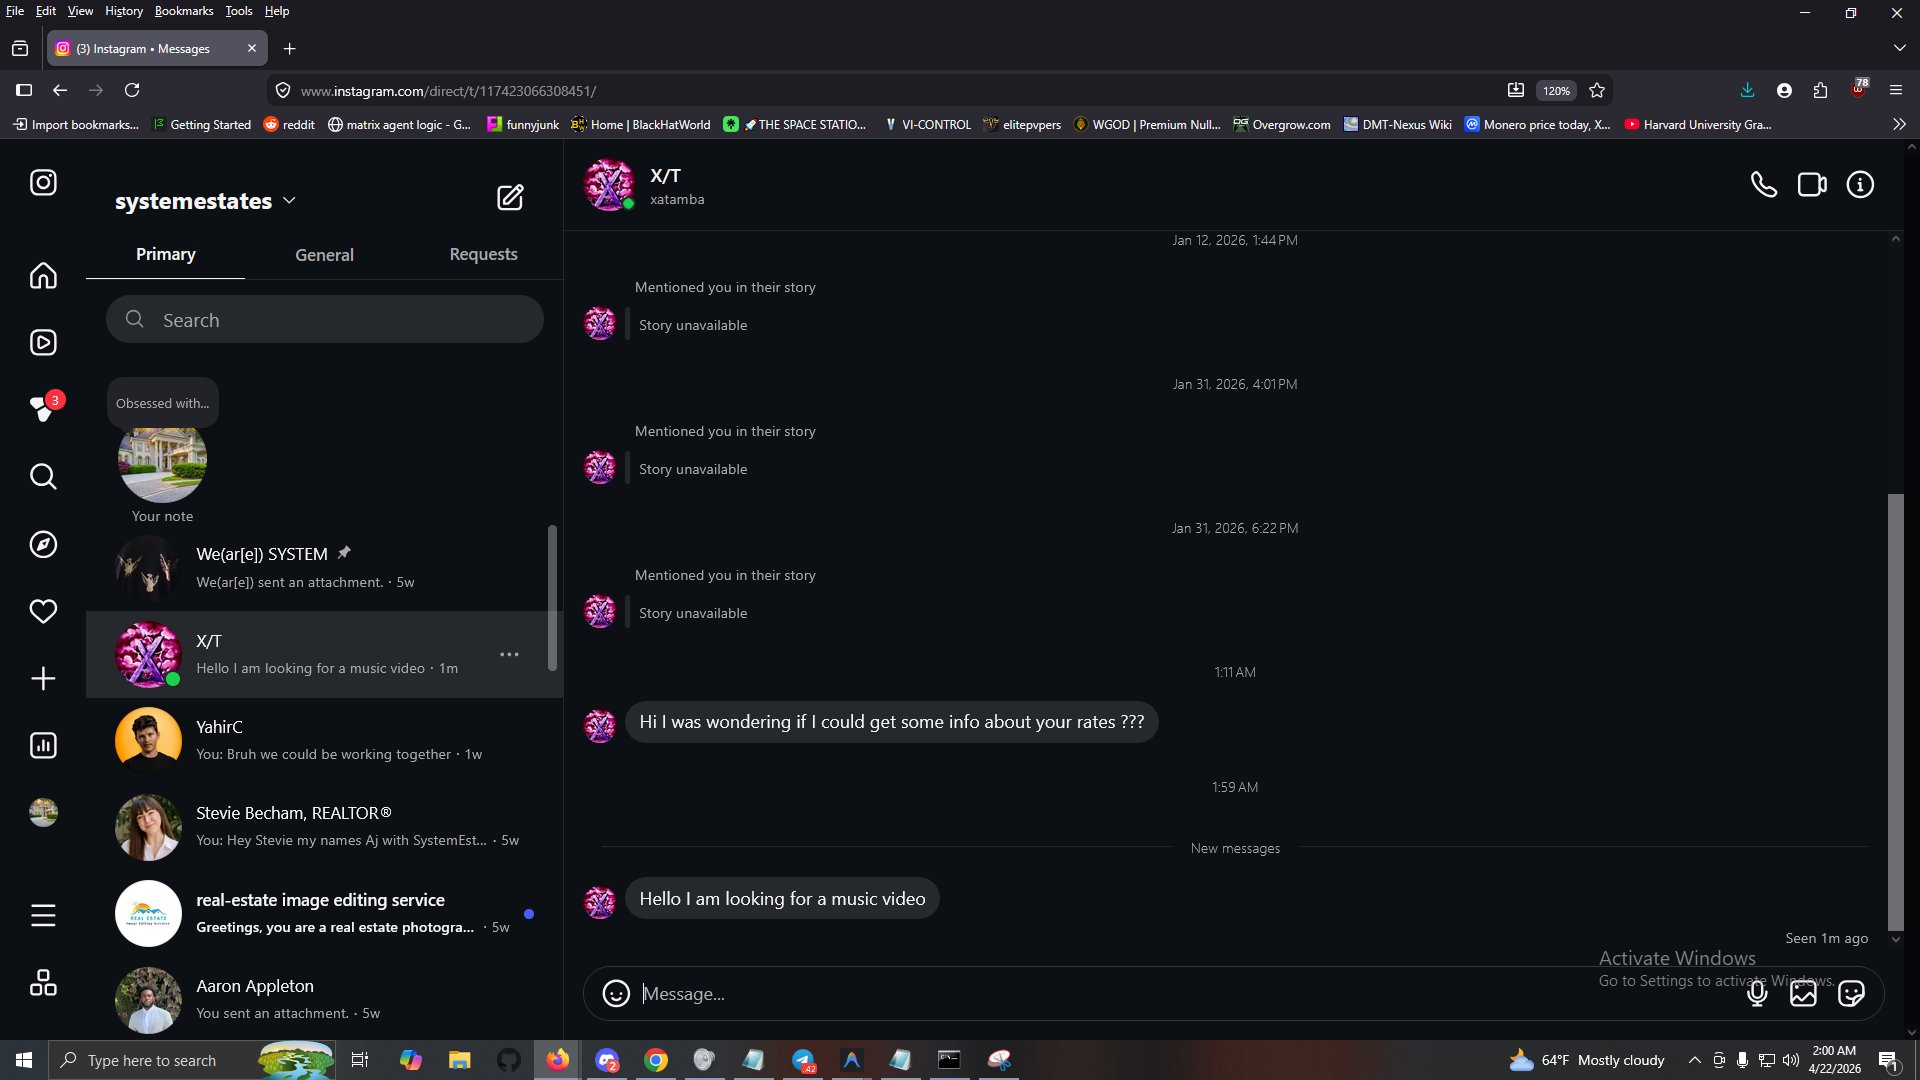
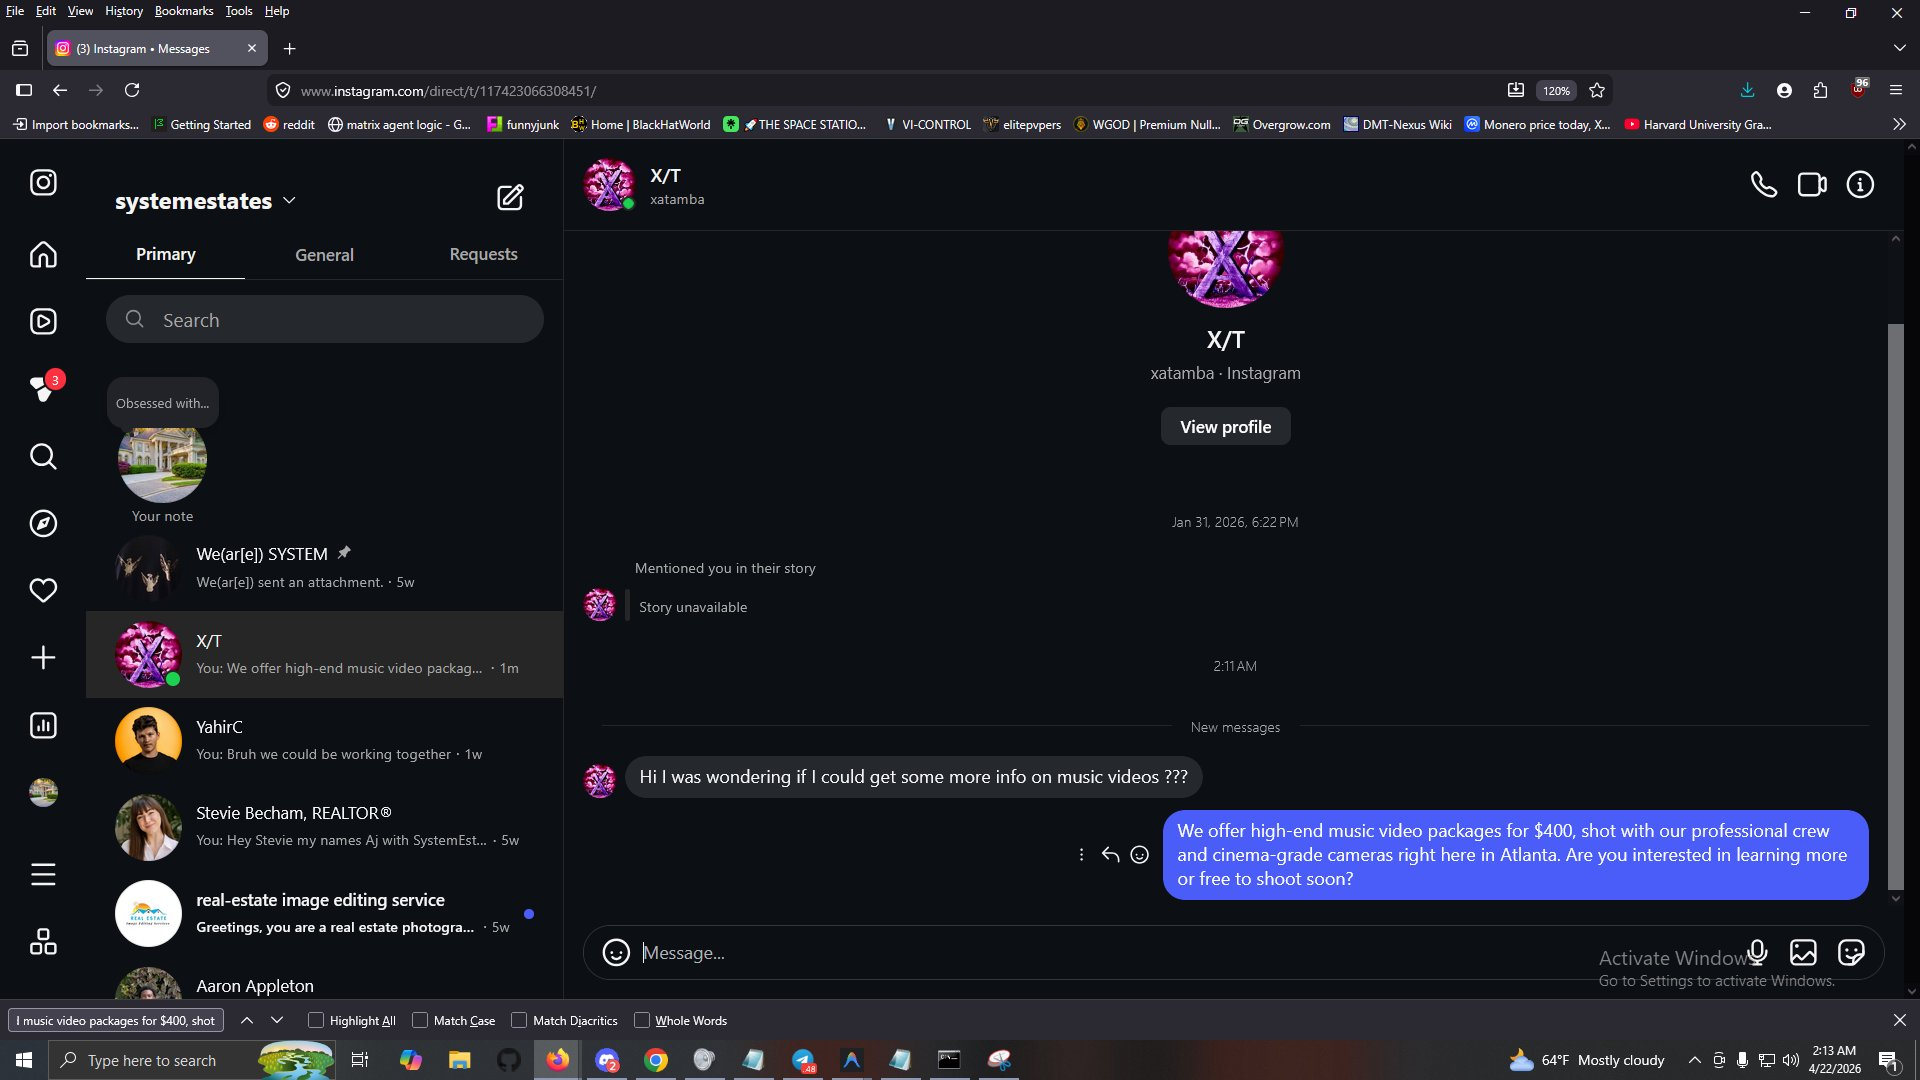
feat: Fix split-pane scrolling and overhaul README for teammates

diff --git a/cmd/s66-bot/main.go b/cmd/s66-bot/main.go
@@ -127,6 +127,11 @@ func StateScroll(a *Agent) (State, error) {
 		return StateObserve, nil
 	}
 
+	// Phase 7: Force mouse to hover over the left inbox pane before scrolling
+	// (Prevents scrolling the right-hand chat history by accident)
+	hardware.MoveSmooth(300, 500)
+	time.Sleep(500 * time.Millisecond)
+
 	hardware.ScrollDown()
 	a.ScrollCount++
 	

diff --git a/README.md b/README.md
@@ -1,101 +1,62 @@
-# System DM Bot: A&R Agent
+# S66 Reachout Bot (VLA Sovereign Agent)
 
-automation engine for System Films' localized outreach pipeline. 
+![S66 Architecture](debug_vision.jpg)
 
-This repository contains the Golang architecture for a sovereign **Vision-Language-Action (VLA) Agent**. Unlike traditional bots, system-dm-bot is designed to operate seamlessly within highly guarded social platforms without triggering automated anti-bot security systems.
+The **S66 Reachout Bot** is a Vision-Language-Action (VLA) Sovereign Agent built for System Films in Atlanta. It autonomously navigates the Instagram Desktop UI, visually hunts for inbound leads using Computer Vision, evaluates the conversation context using Cognitive AI, and dynamically generates personalized $400 music video pitches.
 
-## Why
+## System Architecture
 
-Historically, web automation relied on reading a website's background code (DOM manipulation) or reverse-engineering hidden APIs. In the current digital landscape, trillion-dollar AI systems employed by social networks instantly detect and ban headless browsers and scraper scripts. 
-
-It does not read code; it reads pixels. It does not send HTTP requests to internal endpoints; it physically commands the operating system's hardware mouse and keyboard drivers. 
-1. **The Eyes:** Vertex AI (Gemini) takes a screenshot of the virtual monitor and returns the exact [X, Y] pixel coordinates of the interface elements we want to interact with.
-2. **The Hands:** We utilize low-level C-bindings (`RobotGo`) to emulate human kinematics—moving the mouse along randomized Bezier curves and typing with millisecond, human-like cadences.
-
-## Architecture: The S66 7-Layer OSI Model
-
-To help conceptualize this invisible "headless" terminal bot, we map the VLA architecture to a 7-layer OSI structure:
-
-| Layer | Name | Component | Function in S66 Reachout Bot |
-|---|---|---|---|
-| **7** | **Application (Personality)** | `SKILL.md` | The highest layer. Dictates the bot's "soul", persona, tone, and specific Atlanta System Films outreach instructions. |
-| **6** | **Presentation (Parsing)** | `pkg/optics/vision.go` | Translates the unstructured Vertex JSON response into precise `[Y, X]` float arrays. |
-| **5** | **Session (FSM Loop)** | `cmd/s66-bot/main.go` | The Infinite State Machine that manages the active DM session (Wait -> Screenshot -> Reason -> Click -> Type). |
-| **4** | **Transport (API / Token)** | `gcloud ADC` | The secure, encrypted tunnel that transports images and text to Google Cloud via your Application Default Credentials. |
-| **3** | **Network (Vertex Cloud)** | `genai.Client` | Gemini 1.5 Pro multimodal processing. This is the "Brain" that does the heavy lifting of understanding the screen. |
-| **2** | **Data Link (Memory)** | `pkg/pipeline` | Firestore / SQLite tracking. Ensures we don't message the same user twice. |
-| **1** | **Physical (Actuation)** | `pkg/hardware/motor.go` | Raw OS-level C-bindings. Uses `robotgo` to capture physical VRAM bytes and actuate literal hardware mouse/keyboard events. |
-
-Because Layer 1 completely bypasses the browser's DOM (HTML/CSS), Instagram cannot block it. It is physically simulating a human being.
-
-## Visual Debugging
-Because the bot runs in the background without a UI dashboard, we built **Observability** into Layer 1. 
-Every time the bot takes a screenshot, it saves it to the root folder as `debug_vision.jpg`. You can click this file to literally "see" what the bot is seeing at any given moment.
-
-To the platform's security algorithms, system-dm-bot is indistinguishable from a System Films A&R representative sitting at a computer in Atlanta, reading a screen, and physically clicking a mouse.
+The bot operates on an Infinite State Machine (FSM) loop with three core engines:
+1. **Optics Layer (`pkg/optics`)**: Uses Google Vertex AI (Gemini 2.5 Flash) to analyze spatial UI coordinates and perform cognitive evaluations of chat history.
+2. **Motor Layer (`pkg/hardware`)**: Uses `robotgo` to hijack physical OS-level mouse and keyboard drivers for human-like kinematic movement (bezier curves).
+3. **Cognitive Engine (`SKILL.md`)**: Injects the System Films persona to dynamically draft unique pitches.
 
 ---
 
-## 🌐 Universal Laptop Setup (God Mode)
+## Team Deployment & Cloud Billing
 
-Because this bot physically controls the operating system, it has a strict setup process. If you are a teammate pulling this repo to a new laptop, you must follow these steps perfectly.
+The S66 Bot runs on a centralized **Google Cloud Platform (GCP)** architecture (`matrix-esa-production`). 
+**DO NOT distribute API keys or Service Account JSON files.** 
 
-### Step 1: The "C Thing" (TDM-GCC)
-Because the bot uses `RobotGo` to emulate hardware inputs, it requires C-bindings. Standard Golang cannot compile this natively on Windows.
-1. Download and install [TDM-GCC](https://jmeubank.github.io/tdm-gcc/).
-2. You **must** add the TDM-GCC `bin` folder to your Windows System Environment `PATH` (e.g., `C:\TDM-GCC-64\bin`).
+Instead, the billing and infrastructure are centrally controlled by the System Films Administrator using GCP Identity and Access Management (IAM). 
 
-### Step 2: Google Cloud CLI & Billing
-The bot sends images to Vertex AI (Gemini 2.5 Flash). You need a Google Cloud account with an active billing profile.
-1. Install the [Google Cloud CLI](https://cloud.google.com/sdk/docs/install).
-2. Open a terminal and log in:
+### Setup Instructions for Teammates
+
+If you are a System Films teammate installing this on your laptop, follow these steps exactly:
+
+1. **Install Prerequisites**:
+   - Install [Go (Golang)](https://go.dev/dl/).
+   - Install [TDM-GCC](https://jmeubank.github.io/tdm-gcc/) (Required for CGO hardware drivers). Add it to your Windows `PATH`.
+   - Install the [Google Cloud CLI](https://cloud.google.com/sdk/docs/install).
+
+2. **Authenticate with Google Cloud**:
+   Open your terminal and run the following command to authenticate using your corporate Google account:
    ```bash
-   gcloud auth application-default login
+   gcloud auth application-default login --quota-project=matrix-esa-production
    ```
-3. **CRITICAL:** You must tell Google which project is paying for the API calls. Run this command to set the Quota Project:
-   ```bash
-   # Use matrix-esa-production for testing, or system-dm-bot for production
-   gcloud auth application-default set-quota-project matrix-esa-production
+   *(Note: The System Admin must add your Google email to the GCP IAM as a `Vertex AI User` before this will work).*
+
+3. **Clone and Compile**:
+   ```powershell
+   git clone https://github.com/alex-cyr/system-dm-bot.git
+   cd system-dm-bot
+   go build -ldflags="-s -w" -o s66-bot.exe ./cmd/s66-bot/main.go
    ```
-
-### Step 3: Project Configuration Switch
-In `cmd/test-vision/main.go` and `cmd/s66-bot/main.go`, ensure the `NewVisionClient` string matches your target Google Cloud Project ID. 
-- *Testing:* `"matrix-esa-production"`
-- *Production:* `"system-dm-bot"`
-
-### Step 4: Compiling & Testing
-Always test the "Eyes" and "Hands" independently before running the main bot loop.
-
-**Test the Hands (Physical Actuation):**
-```bash
-$env:CGO_ENABLED="1"
-go build -buildmode=exe -ldflags="-s -w" -o test_hands.exe ./cmd/test-hardware/main.go
-.\test_hands.exe
-```
-*(Warning: The moment you press enter, take your hand off the mouse).*
-
-**Test the Eyes (Vertex AI Vision):**
-```bash
-$env:CGO_ENABLED="1"
-go build -buildmode=exe -ldflags="-s -w" -o test_vision.exe ./cmd/test-vision/main.go
-.\test_vision.exe
-```
-*(Check the root folder for `debug_vision.jpg` to see what the bot saw).*
 
 ---
 
-##  Team Help
+## Execution Manual (God Mode)
 
-We have cleanly separated the logic so multiple team members can build this.
+Before running the agent, you must set up your physical desktop environment.
 
-### 1. The Prompt Engineers (Focus: `pkg/optics/vision.go`)
-We need the Vertex AI spatial prompts to be bulletproof. Your job is to upload screenshots of Instagram DMs to Google AI Studio, figure out the exact text prompt needed to make Gemini return the perfect bounding box for the "New Message" dot or the "Reply" text box, and integrate those prompts here.
+1. **Hardware Setup**: Move your web browser to your **Primary Monitor**. Ensure it is fully maximized.
+2. **Instagram Setup**: Log into the designated System Films Instagram account and open the DM Inbox page (`instagram.com/direct/inbox/`).
+3. **Launch the Engine**: Open your terminal, ensure it is visible at the bottom of the screen, and run:
+   ```powershell
+   .\s66-bot.exe
+   ```
+4. **Hands Off**: The moment you hit enter, take your hand off the physical mouse. The Sovereign Agent is now driving.
 
-### 2. The Cultural Strategists (Focus: `pkg/cognition/smod.go`)
-An agent's physical stealth is useless if it sounds like a corporate bot. This module handles the generation of the actual DM reply. We need logic that takes the prospect's profile data and drafts an authentic, culturally tuned pitch for a System Films music video shoot (e.g., pricing, locations, aesthetic matching). 
-
-### 3. The Kinematic Engineers (Focus: `pkg/hardware/motor.go`)
-Tune the RobotGo parameters. Adjust the Bezier curve mathematical bounds, tweak the typing delay randomization, and ensure the physical movements look as humanly imperfect as possible to guarantee we never get banned.
-
-### 4. The Database Architects (Focus: `pkg/pipeline/memory.go`)
-We need to connect this to Google Cloud Firestore. Every time a DM is sent, it must be logged so the bot never double-pitches the same artist twice. 
+### The Kill Switch (Emergency Stop)
+Because the bot hijacks your physical mouse drivers and runs on an infinite loop, it will not stop until you physically intervene. 
+If it enters a chaotic state or you need to shut it down, **drag your mouse to the terminal and press `CTRL + C` on your keyboard.** This instantly kills the CGO process.
